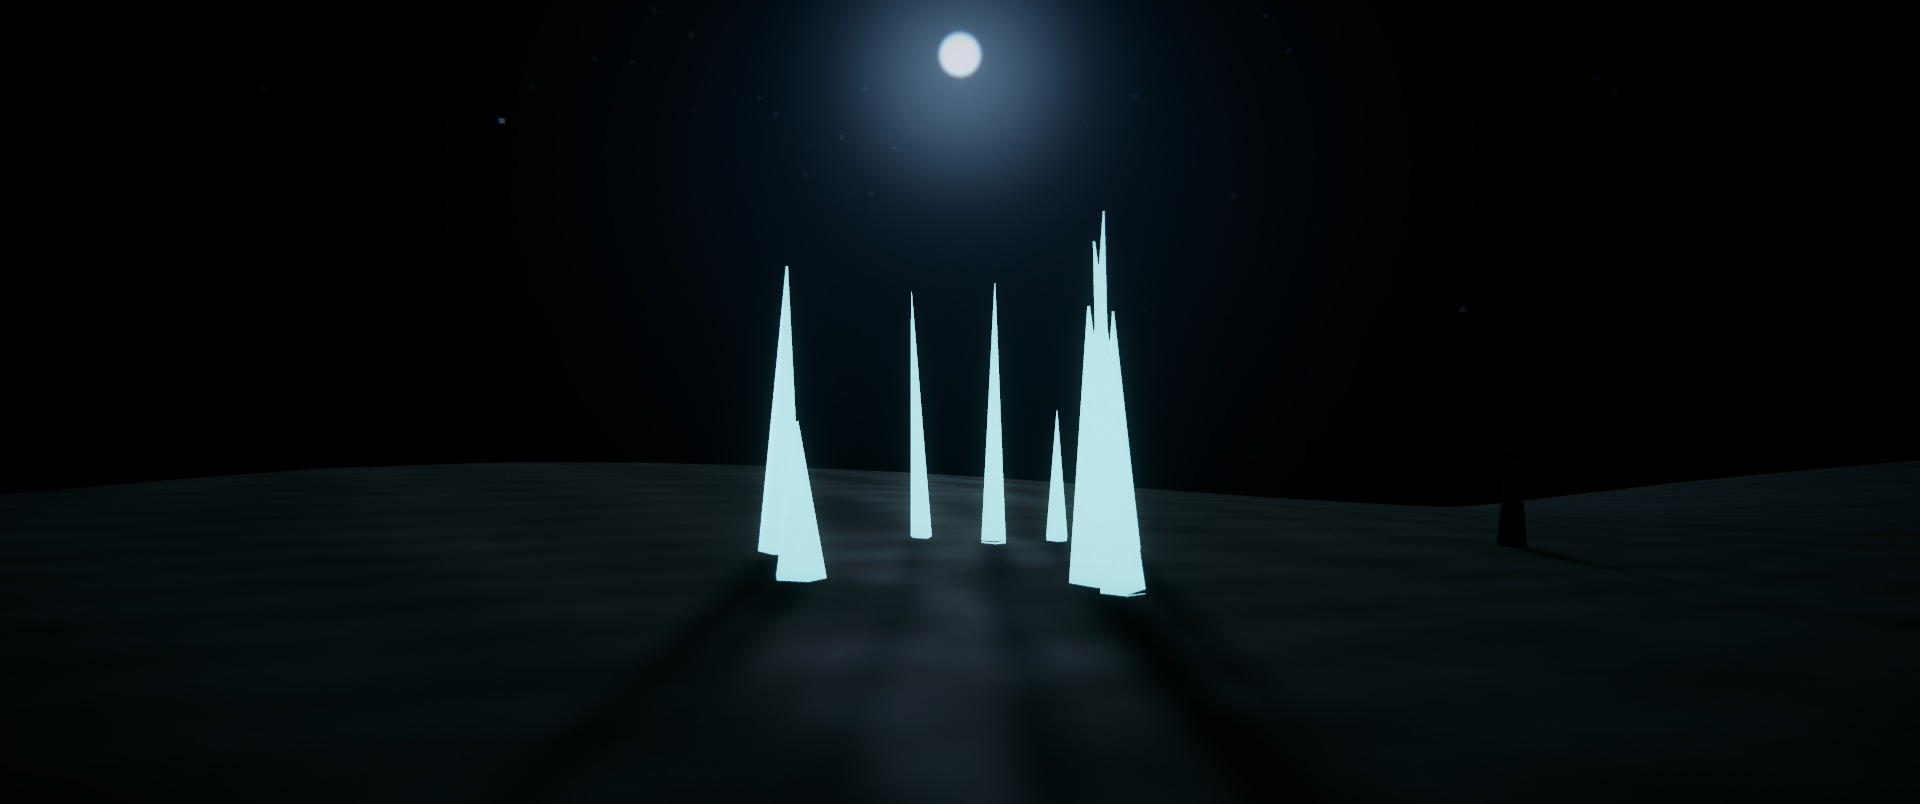
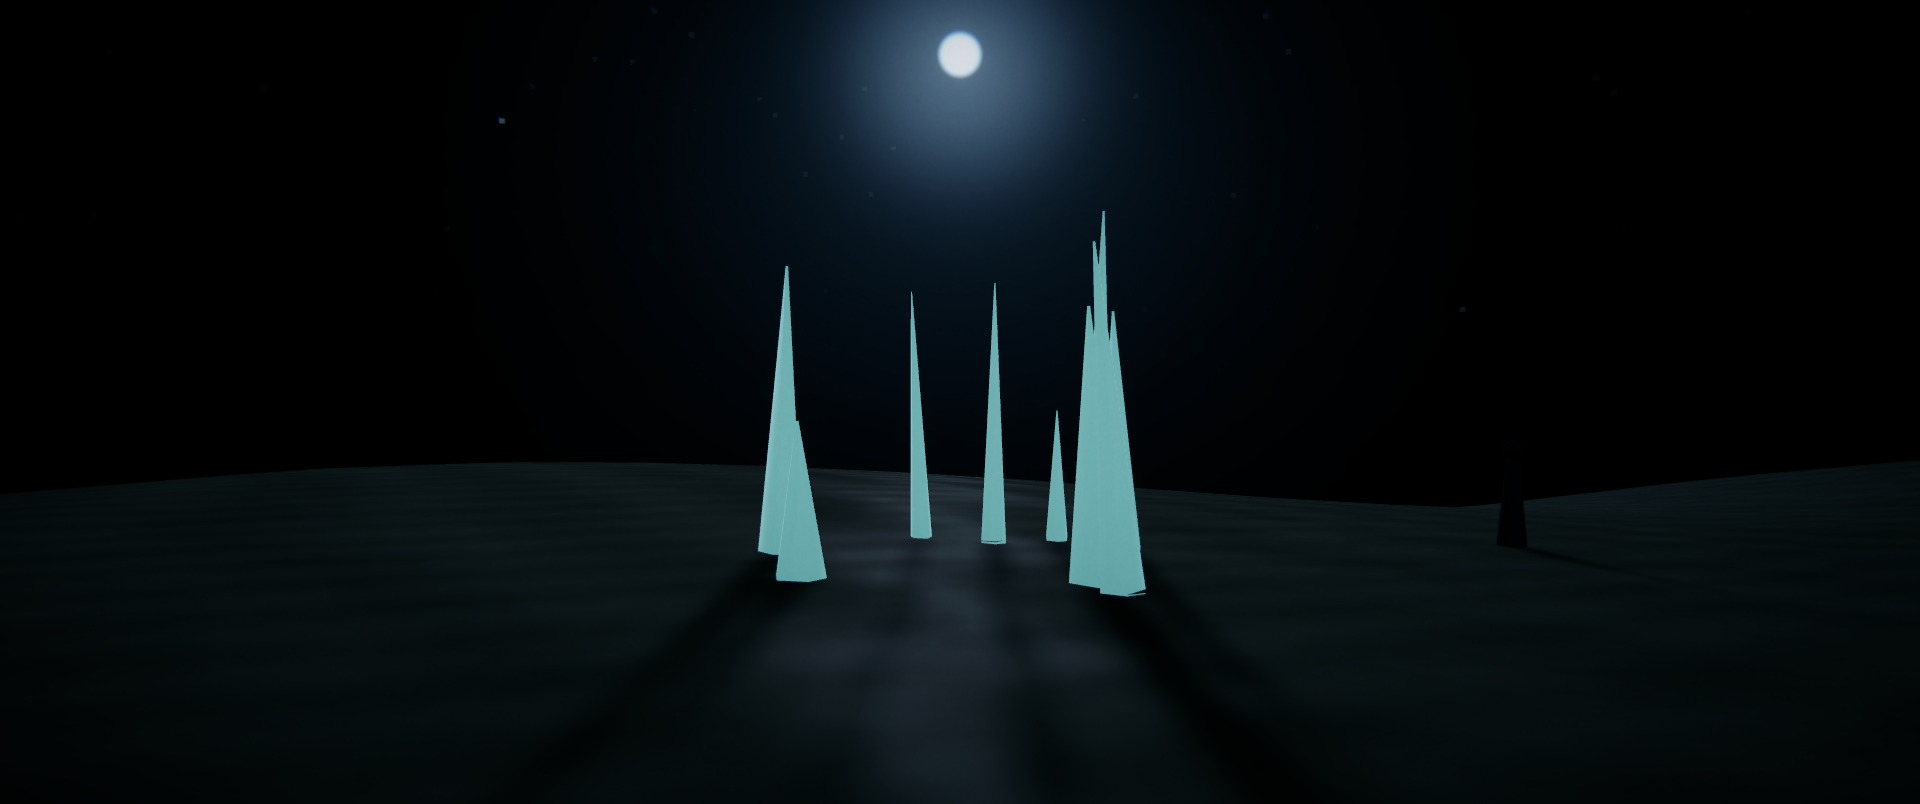
feat(unity): height fog, sky horizon band and reframed key frames
Terrain gains a height-fog term so low ground hazes; the sky knits into the fog colour at the horizon; S1 reframed as an establishing shot. Re-rendered the three stills.

Changed region(s): [[0.4688, 0.2799, 0.5938, 0.7463], [0.375, 0.342, 0.4375, 0.7463]]

diff --git a/clients/unity/UnityGameClient/Assets/Editor/AshkarStill.cs b/clients/unity/UnityGameClient/Assets/Editor/AshkarStill.cs
@@ -181,10 +181,12 @@ namespace AI003.EditorTools
             Vector3 right = new Vector3(viewDir.z, 0f, -viewDir.x);
             // Approach shot: the plaza rim sits on the skyline, the wellspire rises
             // behind it. Eye level, so the tower reads as tall rather than wide.
-            var camPos = site + viewDir * 95f;
-            camPos.y = data.HeightAt(camPos.x, camPos.z) + 2.0f;
-            Vector3 towerAim = site + right * 24f + Vector3.up * 30f;
-            float yaw = Yaw(site + right * 12f - camPos);
+            // Establishing aerial: the whole Well One bowl plus the spire, low sun
+            // raking across the dunes.
+            var camPos = site + viewDir * 175f + right * 65f;
+            camPos.y = site.y + 85f;
+            Vector3 towerAim = site + right * 26f + Vector3.up * 30f;
+            float yaw = Yaw(site - camPos);
             float pitch = PitchTo(camPos, towerAim);
 
             var props = new GameObject("S1Props");
@@ -198,7 +200,7 @@ namespace AI003.EditorTools
             var plaza = AshkarProps.WellOne(Ground(data, site), 24f, brick, wood, bell);
             plaza.transform.SetParent(props.transform, true);
 
-            var spirePos = Ground(data, site - viewDir * 18f + right * 26f);
+            var spirePos = Ground(data, site + right * 26f);
             var spire = AshkarProps.Wellspire(spirePos, 95f, body, trim);
             spire.transform.SetParent(props.transform, true);
 
@@ -244,7 +246,7 @@ namespace AI003.EditorTools
             var props = new GameObject("S4Props");
 
             var crystal = AshkarProps.Emissive("Coldfire",
-                new Color(0.12f, 0.34f, 0.31f), new Color(0.35f, 0.95f, 0.85f) * 0.9f);
+                new Color(0.12f, 0.34f, 0.31f), new Color(0.30f, 0.85f, 0.78f) * 0.5f);
             var robe = AshkarProps.Material("Robes", new Color(0.04f, 0.05f, 0.06f), 0.1f);
 
             var cluster = AshkarProps.CrystalCluster(Ground(data, spot), 9, 3.0f, crystal, 7);
@@ -353,6 +355,13 @@ namespace AI003.EditorTools
             RenderSettings.fogStartDistance = look.fogStart;
             RenderSettings.fogEndDistance = look.fogEnd;
 
+            if (terrain != null)
+            {
+                terrain.TerrainMaterial.SetColor("_HeightFogColor", look.fog.linear);
+                terrain.TerrainMaterial.SetFloat("_HeightFogStrength", night ? 0.25f : 0.55f);
+                terrain.TerrainMaterial.SetFloat("_HeightFogDistance", look.fogEnd * 0.55f);
+            }
+
             var skyMat = new Material(Shader.Find("AI003/AshkarSky")) { name = "AshkarSky" };
             skyMat.SetColor("_Zenith", look.zenith.linear);
             skyMat.SetColor("_Horizon", look.horizon.linear);
@@ -366,6 +375,8 @@ namespace AI003.EditorTools
             skyMat.SetFloat("_Haze", night ? 0.25f : 0.45f);
             skyMat.SetFloat("_DustBand", night ? 0.05f : 0.25f);
             skyMat.SetFloat("_Stars", look.stars);
+            skyMat.SetColor("_FogColor", look.fog.linear);
+            skyMat.SetFloat("_HorizonBand", night ? 0.35f : 0.55f);
             RenderSettings.skybox = skyMat;
 
             var volumeObject = new GameObject("Volume");

diff --git a/docs/worldview/06-concept-frames.md b/docs/worldview/06-concept-frames.md
@@ -88,7 +88,8 @@
 
 ![Unity S1](../images/worldview/engine-s1.jpg)
 
-洼地里的井塔从沙脊后升起，塔基平台与钟架露出。**构图仍偏弱**：塔与地形的遮挡关系还没调好。
+井塔立在沙脊上，长影横过坡面，广场的白色圆盘在塔脚露出来。左侧是大片留白 ——
+尺度读得出来，但**构图仍偏空**，塔与广场的关系还需要一次专门的机位设计。
 
 ### S4 · 霜夜的冷火
 
